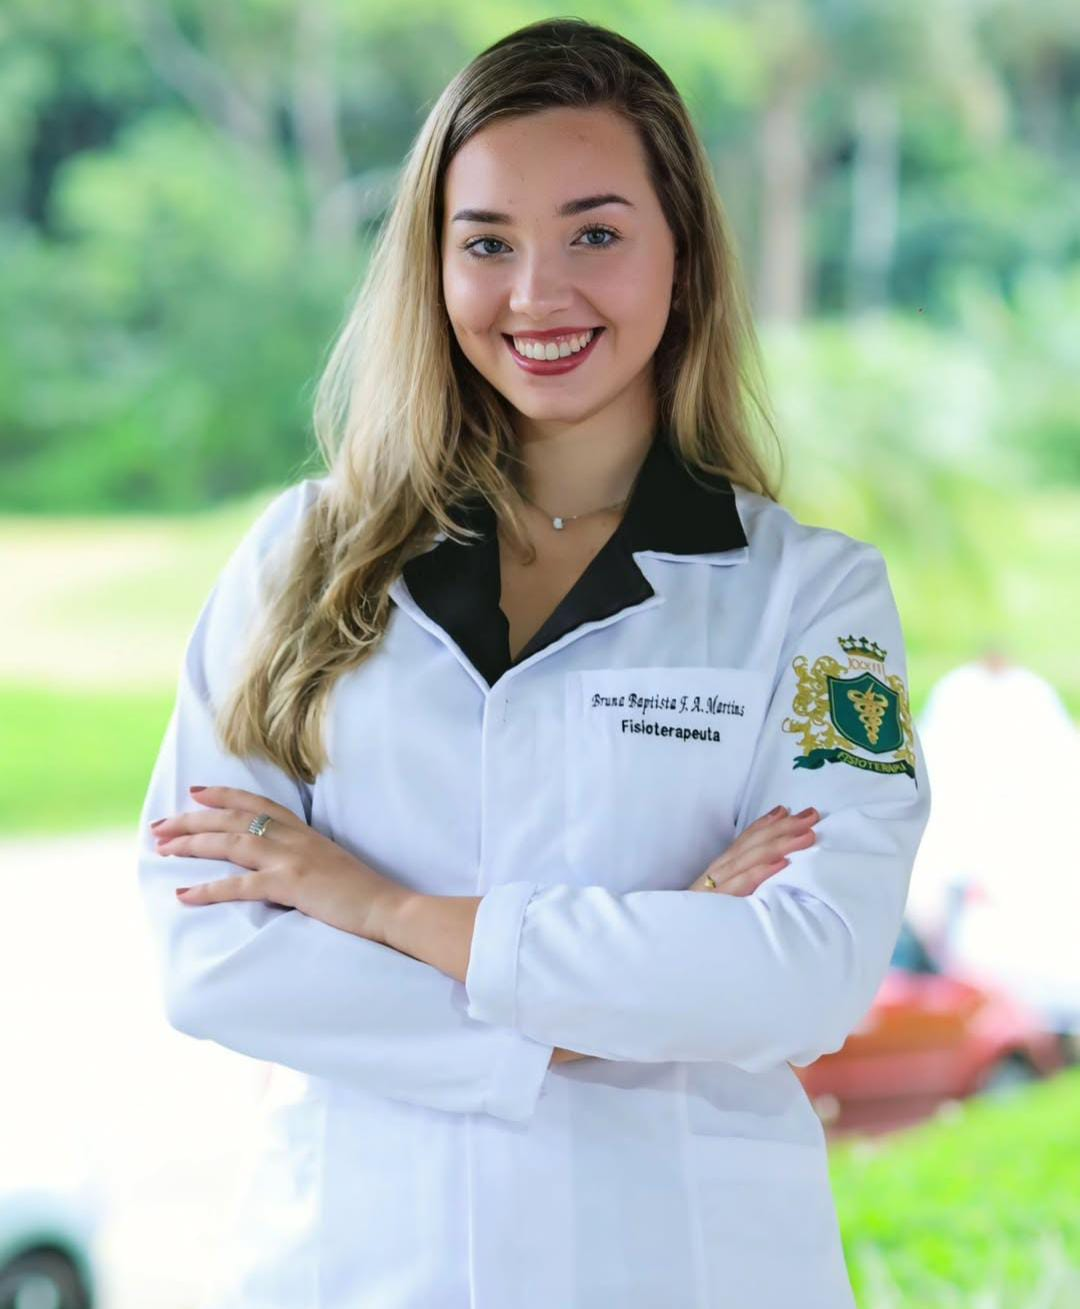
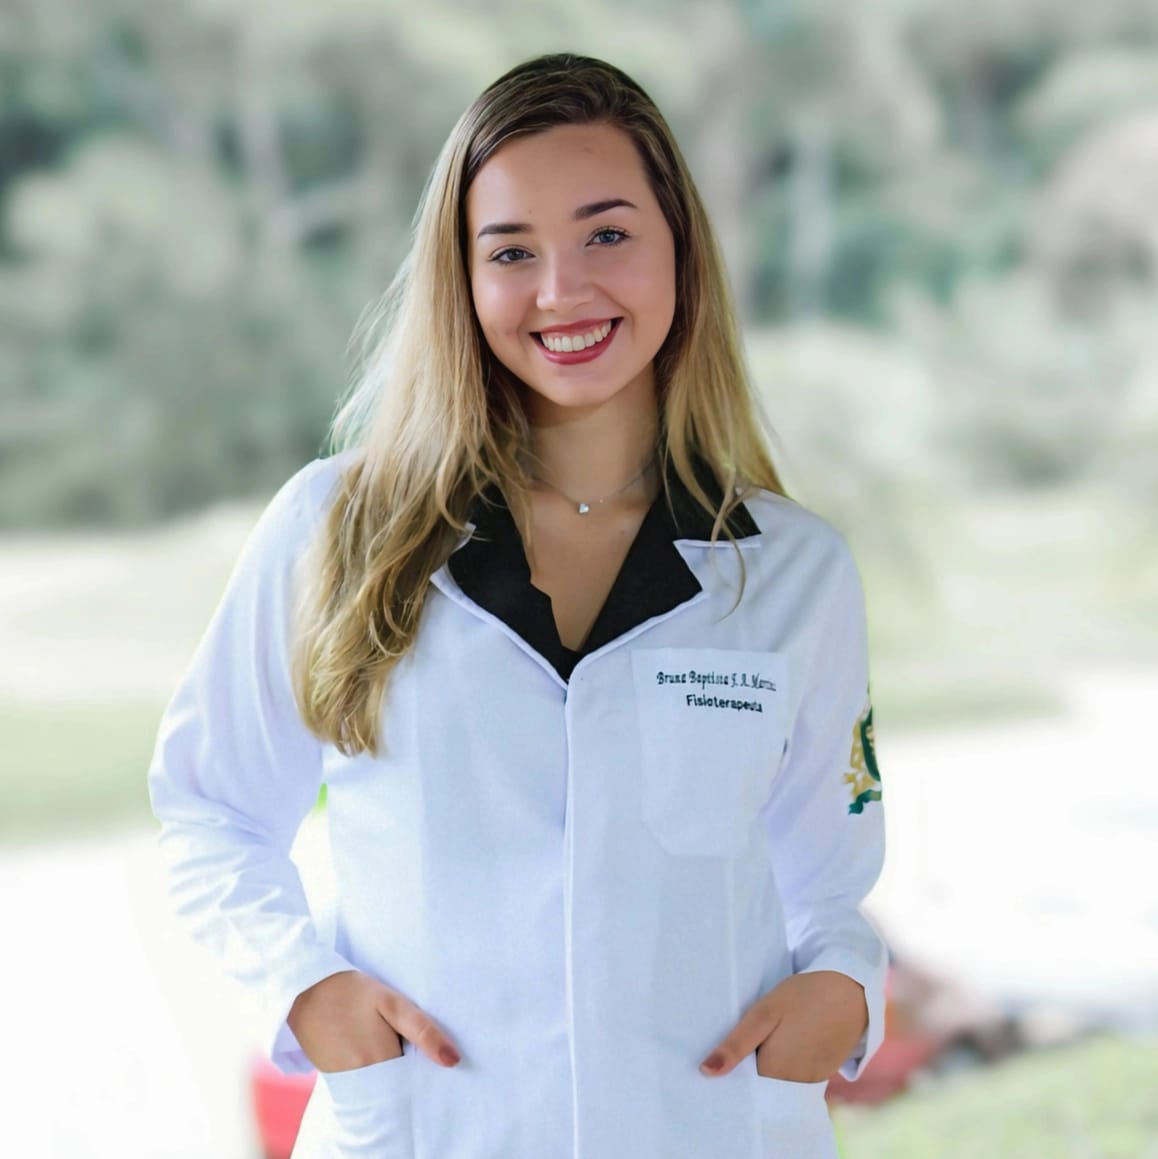
atualização no site

diff --git a/styles.css b/styles.css
@@ -1,15 +1,15 @@
 :root {
-    --primary-color: #006d5b;
-    --primary-light: #4d9e8f;
-    --primary-dark: #004d40;
-    --secondary-color: #f8f9fa;
+    --primary-color: #0D1C43;
+    --primary-light: #2c3e73;
+    --primary-dark: #091233;
+    --secondary-color: #F2CED6;
     --accent-color: #25d366;
     --accent-dark: #128c7e;
-    --text-color: #333;
+    --text-color: #0D1C43;
     --light-text: #6c757d;
     --white: #ffffff;
-    --light-bg: #f8f9fa;
-    --dark-bg: #343a40;
+    --light-bg: #F2CED6;
+    --dark-bg: #0D1C43;
     --gray-light: #e9ecef;
     --shadow: 0 5px 15px rgba(0, 0, 0, 0.1);
     --shadow-hover: 0 8px 25px rgba(0, 0, 0, 0.15);
@@ -70,7 +70,7 @@ img {
 }
 
 .section-light {
-    background-color: var(--white);
+    background-color: var(--secondary-color);
     padding: 80px 0;
 }
 
@@ -171,7 +171,7 @@ img {
 
 /* Header */
 header {
-    background-color: var(--white);
+    background-color: var(--secondary-color);
     position: fixed;
     top: 0;
     left: 0;
@@ -442,9 +442,11 @@ header {
     box-shadow: var(--shadow);
 }
 
-.section-dark .servico-card {
-    background-color: rgba(255, 255, 255, 0.1);
+.section-light {
+    background-color: var(--light-bg); /* que é rosa claro */
+    padding: 80px 0;
 }
+
 
 .servico-card:hover {
     transform: translateY(-10px);

diff --git a/index.html b/index.html
@@ -63,7 +63,7 @@
         <h2 class="section-title">Sobre a Profissional</h2>
         <div class="sobre-content">
             <div class="sobre-img">
-                <img src="imagemBruna.jpeg" alt="Dra. [Nome] atendendo paciente">
+                <img src="WhatsApp Image 2025-07-13 at 22.36.58.jpeg" alt="Dra. [Nome] atendendo paciente">
             </div>
             <div class="sobre-texto">
                 <h3>Dra. Bruna Baptista</h3>
@@ -83,7 +83,7 @@
         </div>
     </div>
 </section>
-<section id="servicos" class="section-dark">
+<section id="servicos" class="section-light">
     <div class="container">
         <h2 class="section-title">Nossos Serviços</h2>
         <div class="servicos-grid">
